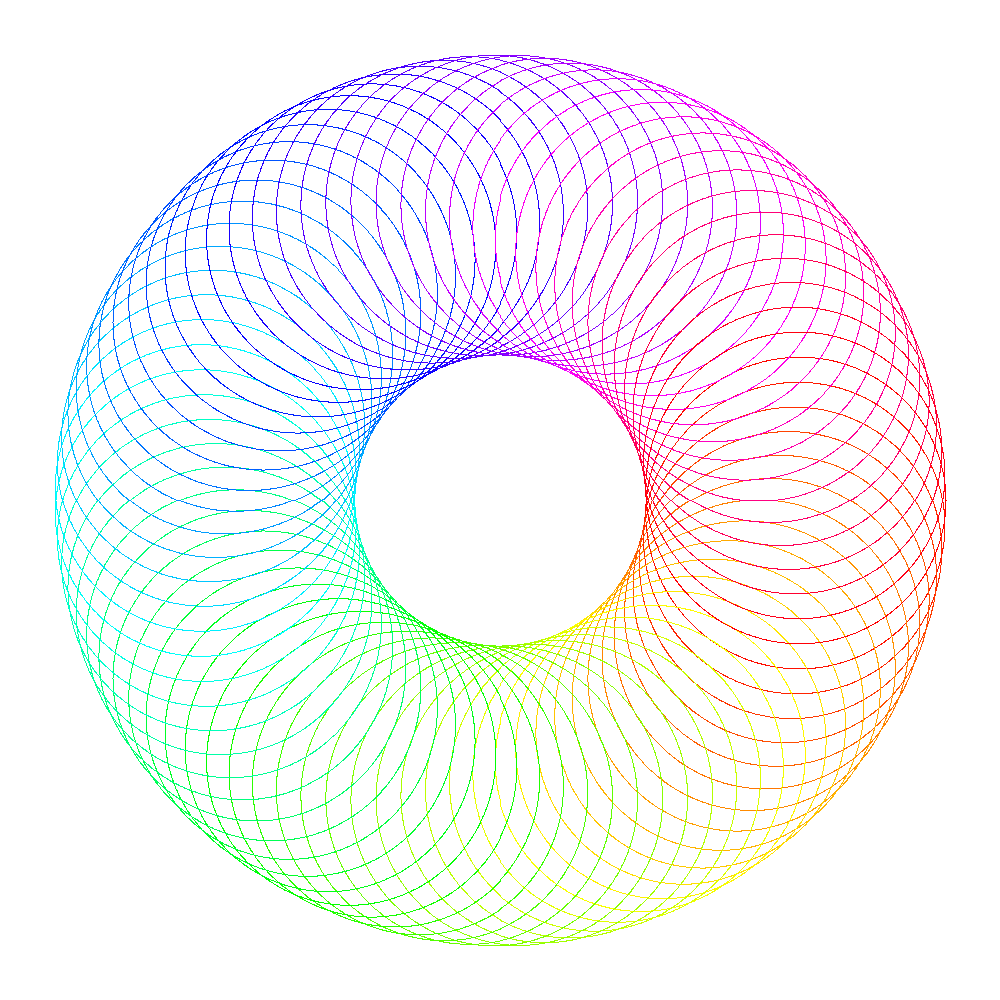
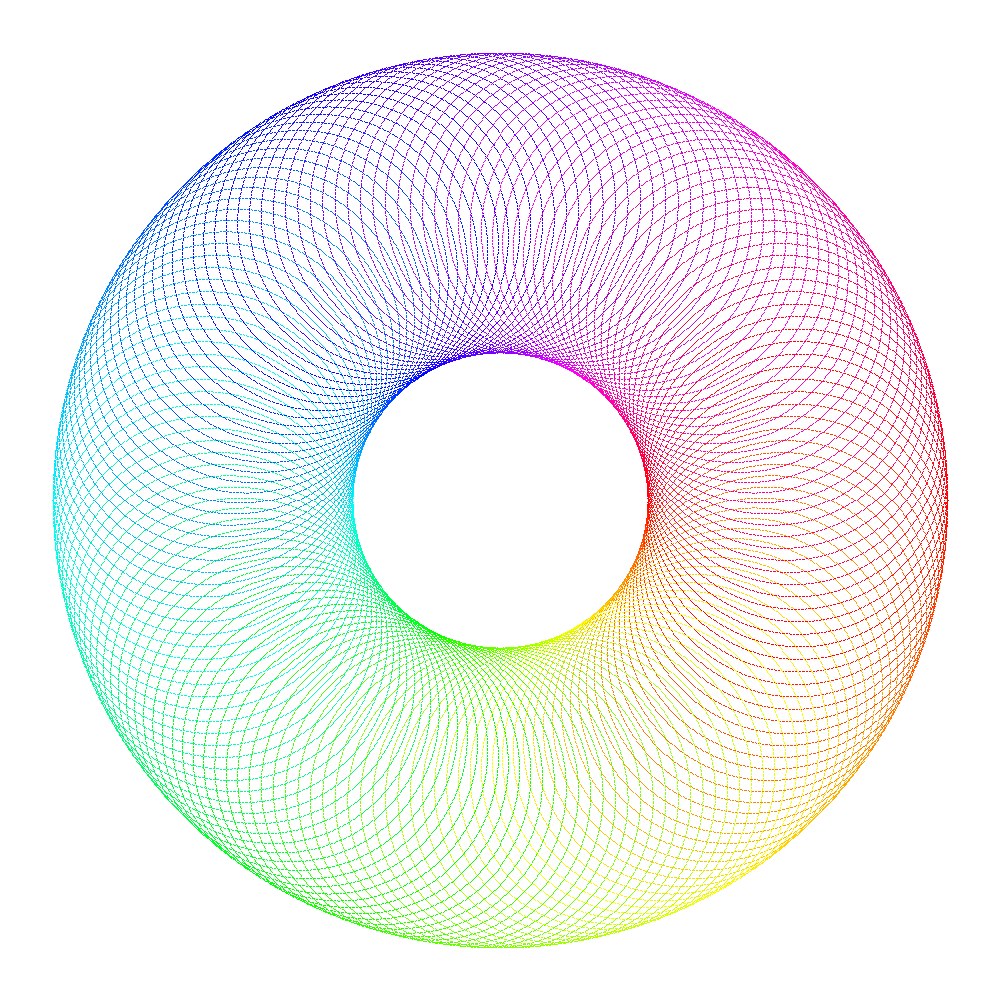
Added Ice texture and a simple spirograph

Changed region(s): [[0.031, 0.031, 0.961, 0.961]]

diff --git a/ice.py b/ice.py
@@ -1,15 +1,88 @@
 from PIL import Image, ImageDraw
 import numpy as np
-  
-filename = "ice_example.jpg"
-im = Image.open(filename)
-im = im.convert("RGBA")
+import random
+
+filename = "pictures/ice_example.jpg"
+imref = Image.open(filename)
+refdata = np.array(imref)
+
 width = 1920
 height = 1080
-overlay = Image.new('RGBA', width, height, (255,255,255,255))
+WHITE = (255, 255, 255)
+BLACK = (0, 0, 0)
+img = Image.new('RGB', (width, height), WHITE)
+draw = ImageDraw.Draw(img)
+data = img.getdata()
 
+def rcolor(): #random rgb color generator
+    return tuple(np.random.choice(range(256), size=3))
+
+def rgrey(): #random greyscale generator
+    return tuple([np.random.choice(range(256))]*3)
+
+def replace_color(color1, color2):
+    data = img.getdata()
+    new_data = []
+    for item in data:
+        if item == color1:
+            new_data.append(color2)
+        else:
+            new_data.append(item)
+    img.putdata(new_data)
+    return 0
+
+def alter_color(color, variance):
+    new_color = list(color)
+    new_color = [max(0, min(255, value+np.random.randint(-variance, variance+1))) for value in new_color]
+    return tuple(new_color)
+
+def draw_rec(center, len, thic, phi, color): #rectangle rotated phi degrees about a center with corners ABCD
+    x, y = center
+    #X = x_0 + x*cos(θ) - y*sin(θ)
+    #Y = y_0 + x*sin(θ) + y*cos(θ)
+    A = (x-len*np.cos(phi)-thic*np.sin(phi), y-len*np.sin(phi)+thic*np.cos(phi)) #top left
+    B = (x-len*np.cos(phi)+thic*np.sin(phi), y-len*np.sin(phi)-thic*np.cos(phi)) #bottom left
+    C = (x+len*np.cos(phi)+thic*np.sin(phi), y+len*np.sin(phi)-thic*np.cos(phi)) #bottom right
+    D = (x+len*np.cos(phi)-thic*np.sin(phi), y+len*np.sin(phi)+thic*np.cos(phi)) #top right
+    draw.polygon([A, B, C, D], fill=color)
 
 def main():
+    
+    for i in range(0, 10000):
+
+        #pick random starting points
+        center = (np.random.randint(0, width), np.random.randint(0, height))
+        length = np.random.randint(width/200, width/150)
+        thickness = np.random.randint(length/4, length/3)
+        rotation = random.choices([-np.pi/4, np.pi/4]) #rotated 45 degrees or -45
+        layers = np.random.randint(2, 10)
+        #print("new block", center, length, thickness, layers)
+
+        #draw pyramids
+        for j in range(layers, -1, -1):
+            scale = 2*np.random.uniform(1.3, 1.5)
+            draw_rec(center, length+j*scale, thickness+j*scale, rotation, rgrey())
+
+
+    if False: #apply a random color gradient
+        start_color = rcolor()
+        ImageDraw.floodfill(img, (0, 0), start_color)
+        new_color = alter_color(start_color, 2)
+        for y in range(0, height):
+            for x in range(0, width):
+                r,g,b = img.getpixel((x,y))
+                if (r == b and r == g and g == b):
+                    ImageDraw.floodfill(img, (x, y), new_color)
+                    new_color = alter_color(img.getpixel((x,y)), 1)
+    
+    if True: #apply original colors
+        for x in range(0, width):
+            for y in range(0, height):
+                r,g,b = img.getpixel((x,y))
+                if (r == b and r == g and g == b):
+                    ImageDraw.floodfill(img, (x, y), tuple(refdata[y][x]))
+
+    img.save("pictures/ice.png")
 
     return 0
 

diff --git a/squared.py b/squared.py
@@ -4,17 +4,18 @@ import random
 import os
 import time
   
-filename = "pictures/test.png"
+filename = "pictures/test.jpg"
 im = Image.open(filename)
 im = im.convert("RGBA")
-overlay = Image.new('RGBA', im.size, (0,0,0,0))
+overlay = Image.new('RGBA', im.size, (255,255,255,255))
 width, height = im.size
 imdata = np.array(im)
-iterations = 100000
-print(im.format, im.size, im.mode, iterations, filename)
+print(im.format, im.size, im.mode, filename)
 
 def main():
     start_time = time.time()
+
+    iterations = 100000
     for i in range(1,iterations+1):
 
         #choose random center point
@@ -36,7 +37,7 @@ def main():
 
         #set square of that color
         draw = ImageDraw.Draw(overlay)
-        draw.rectangle(((x-size,y-size),(x+size, y+size)), fill=tuple(color), outline=(0,0,0,0))
+        draw.rectangle(((x-size,y-size),(x+size, y+size)), fill=tuple(color), outline=None)
 
         #percentage complete timer
         if i % int(iterations/20) == 0:

diff --git a/spiro.py b/spiro.py
@@ -10,7 +10,7 @@ img = Image.new('RGBA', (width, height), WHITE)
 def main():
 
     R = 300 #radius of large circle
-    r = 4 #radius of small circle
+    r = 2 #radius of small circle
     p = 150 #distance from plotting point to small circle center
     #start with 200,4,160
 
